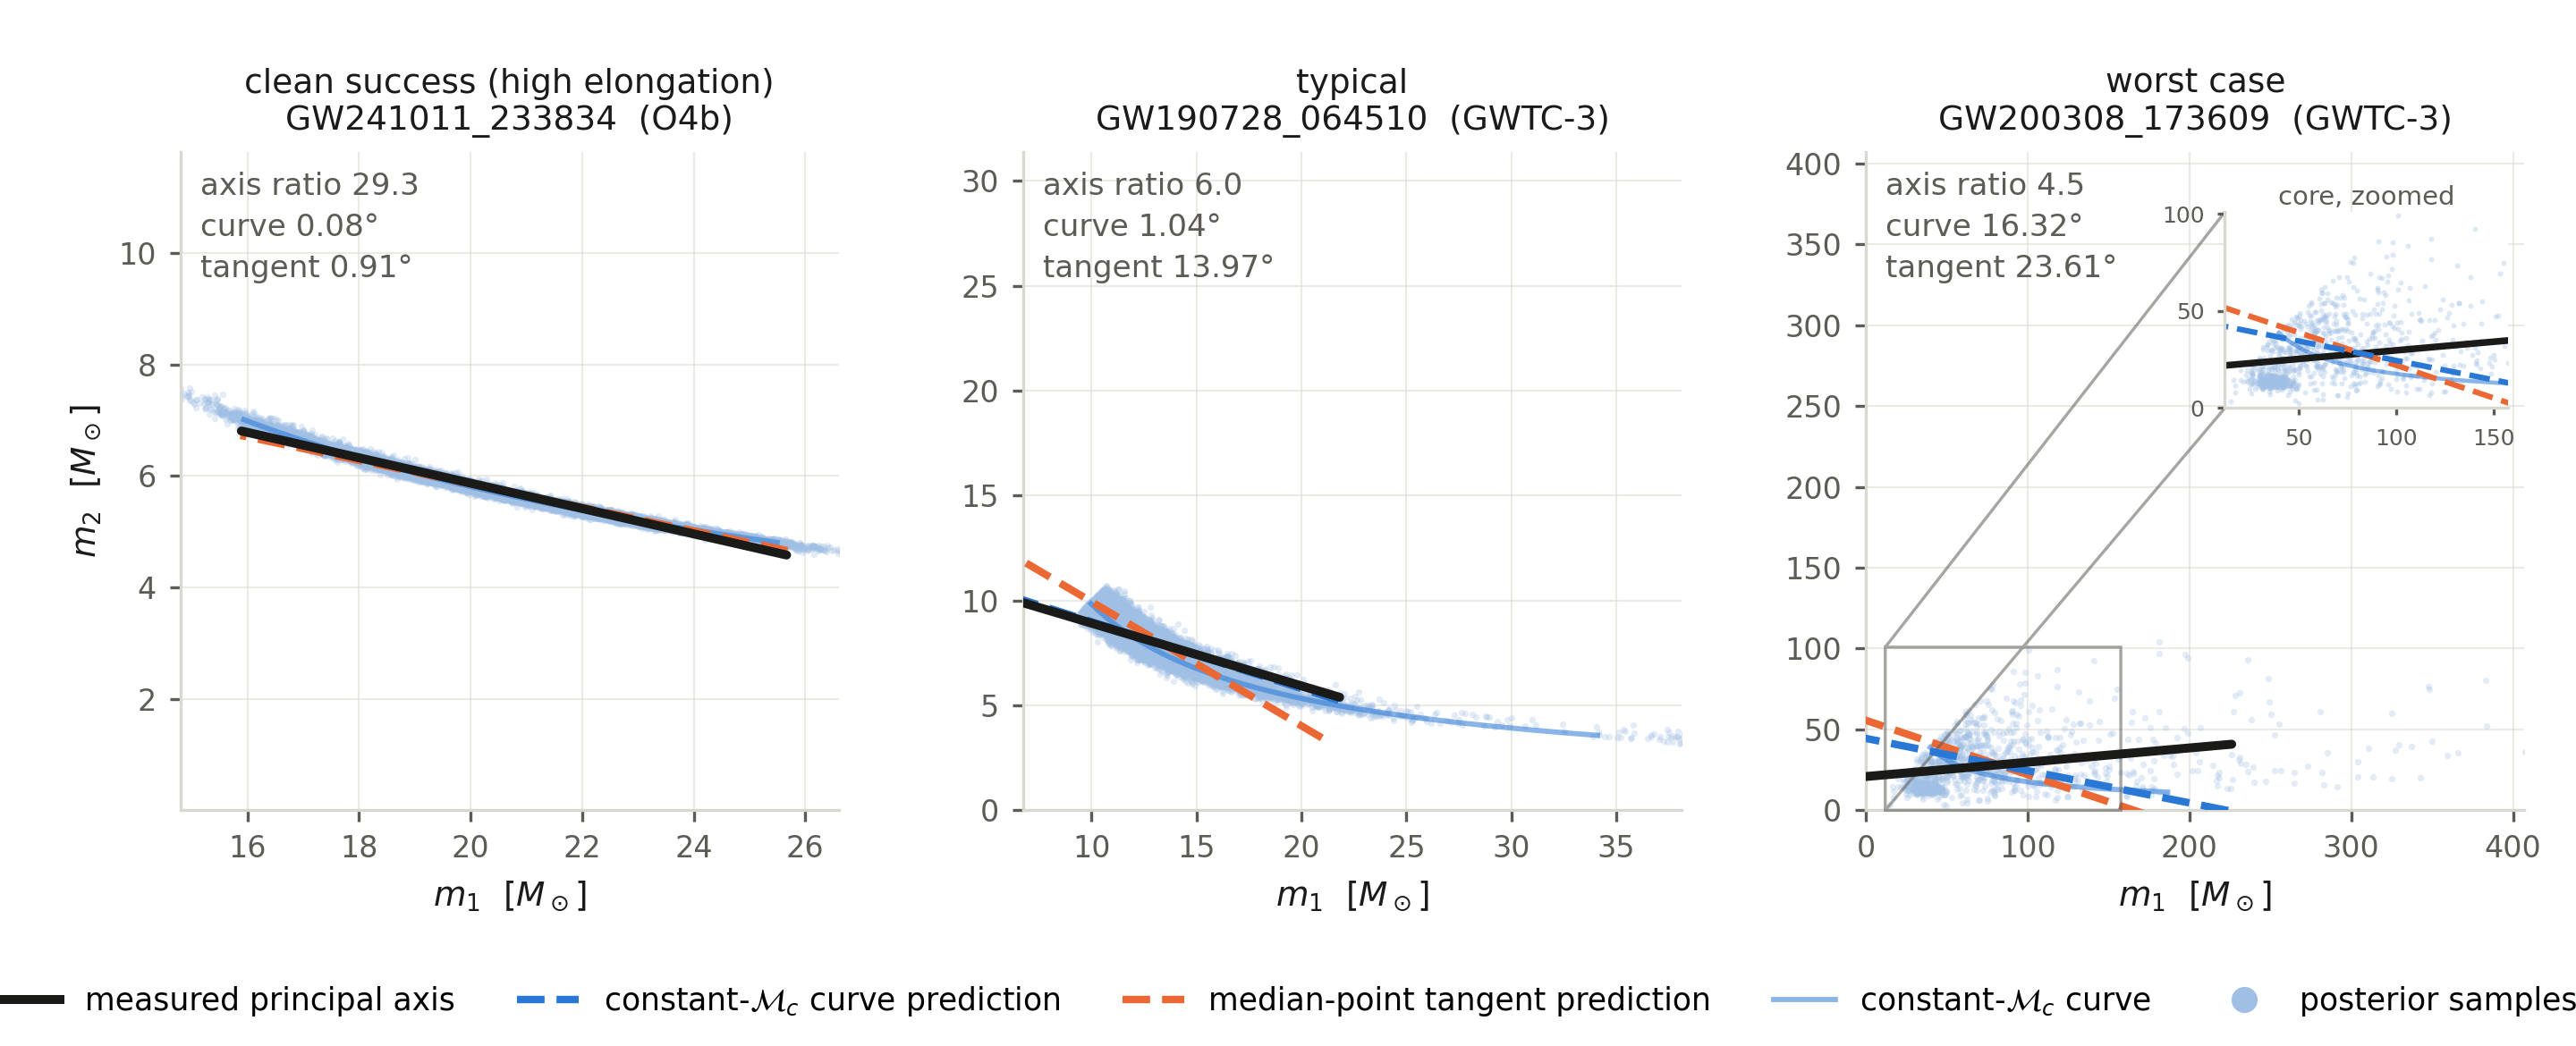
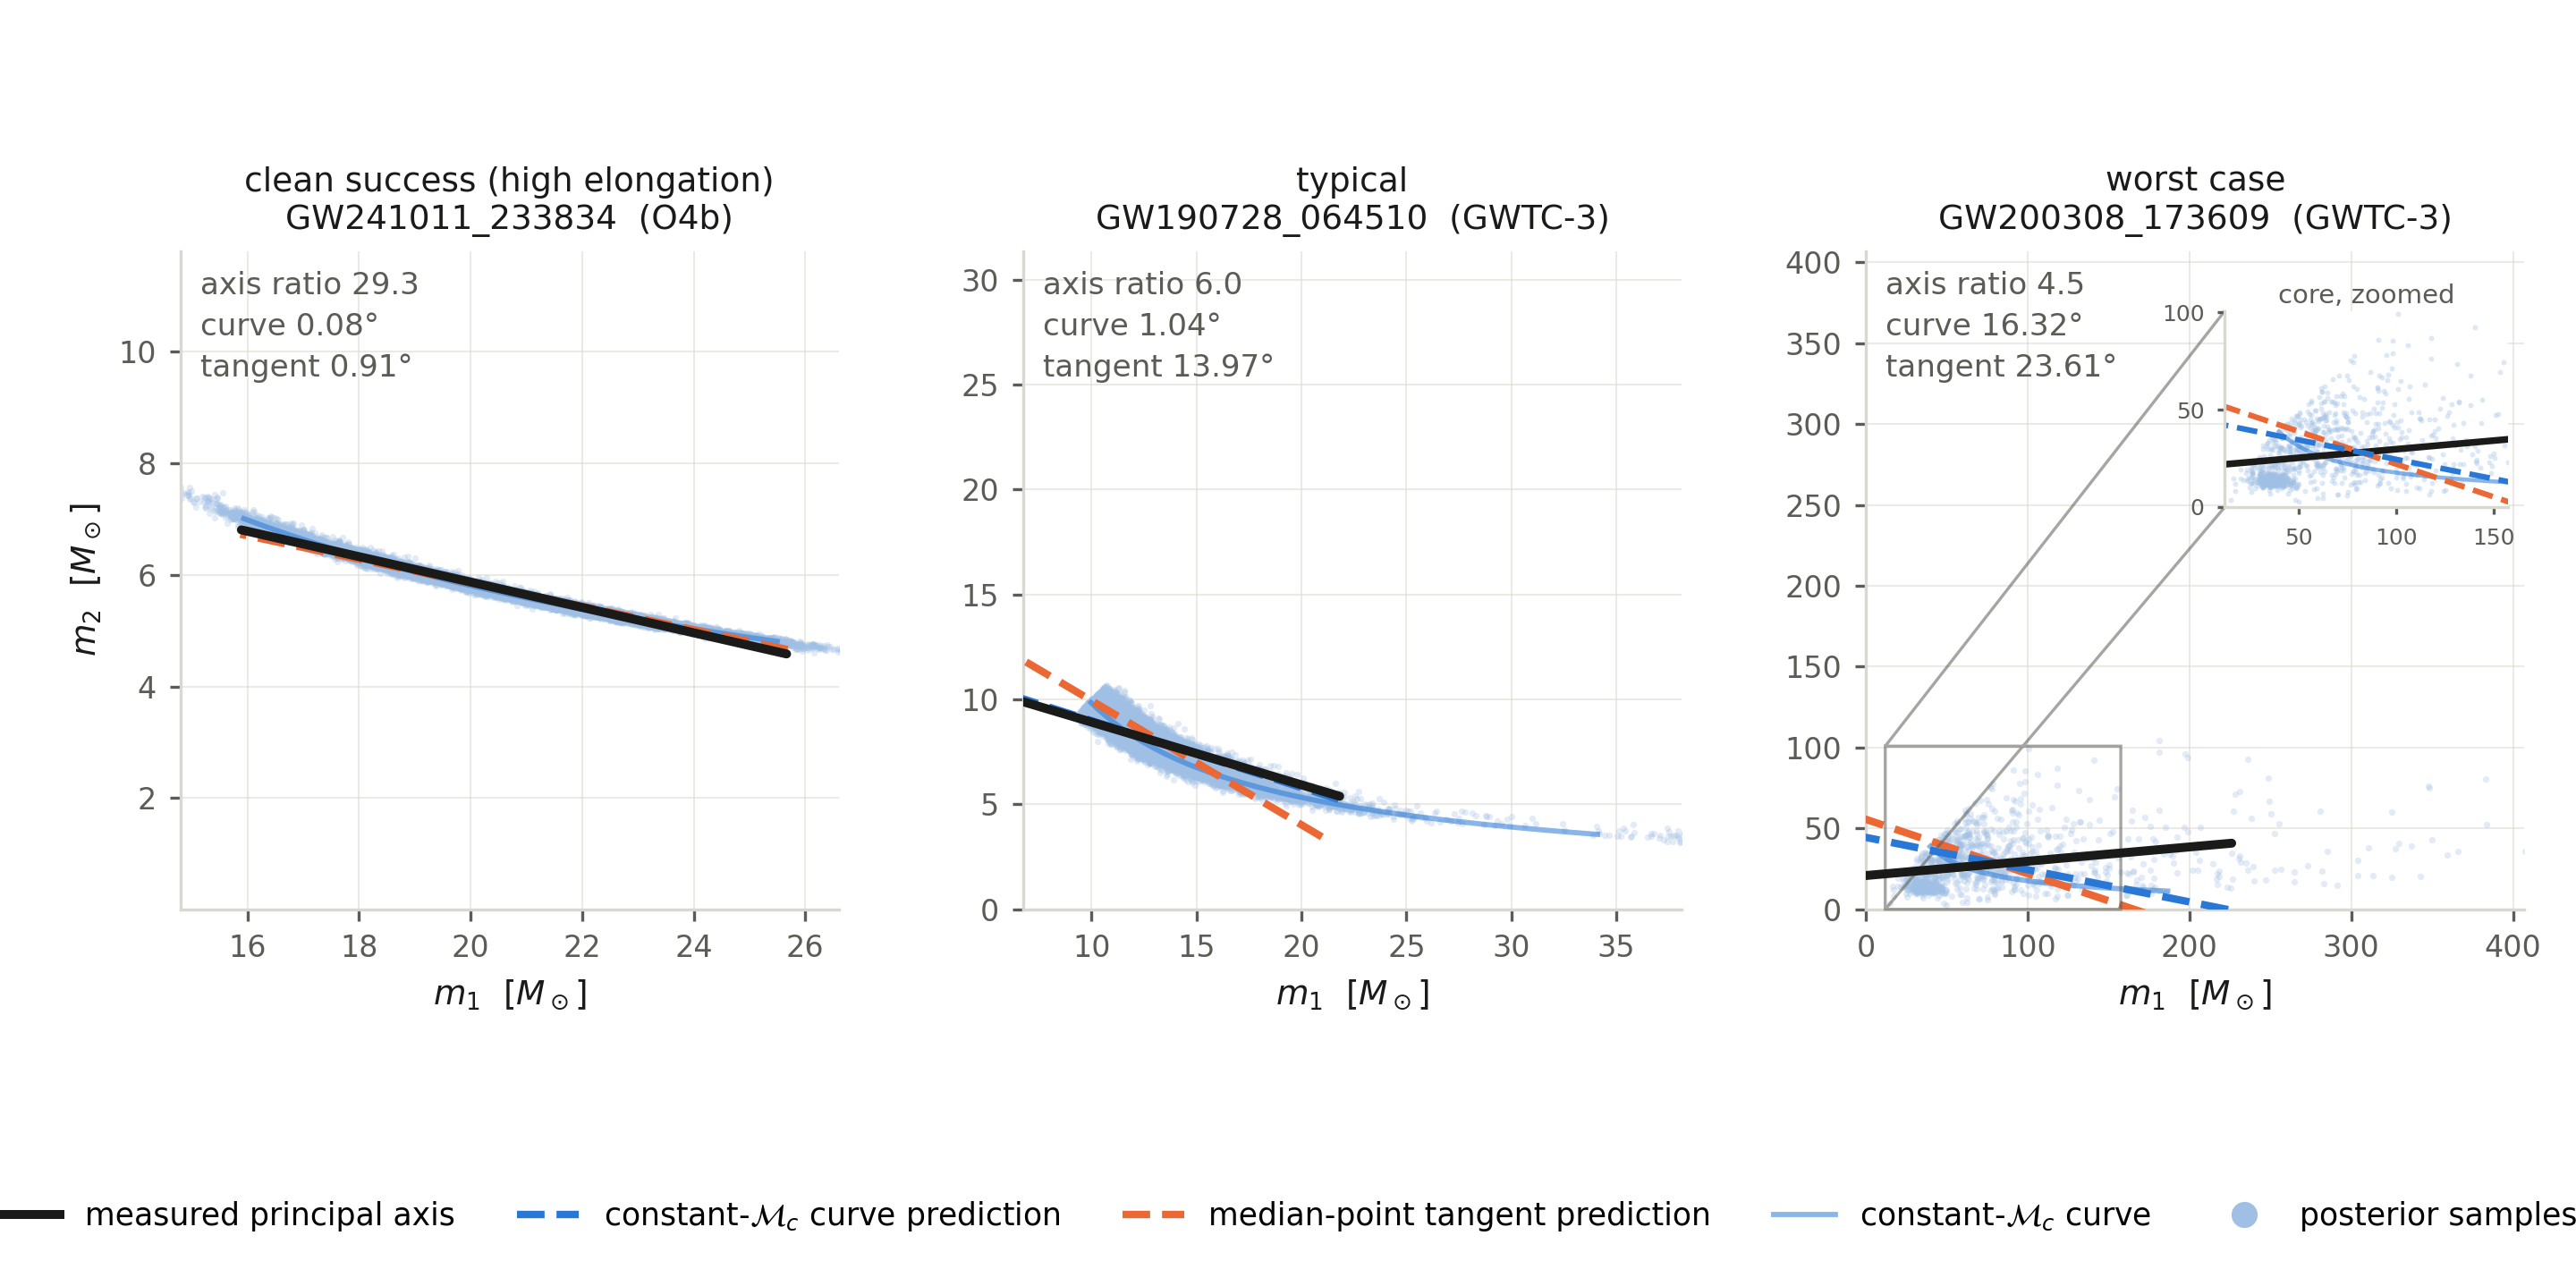
Writing revision: discovery narrative, not audit record
Response to an external readability review that returned "major revision for writing, not
for substance". No number changed -- paper/numbers.tex is byte-identical -- and the figures
are the same measurements.

ABSTRACT (P1). Cut from ~250 to 212 words and restructured to problem, method, headline
O4a/O4b numbers, non-triviality, one caveat. The waveform-transfer, self-consistency and
finite-thickness clauses were compressed to single mentions; the GR disclaimer became a
half-sentence at the end instead of three lines.

AUDIT PROSE (P1). The scattered denials -- not invariant, not a hyperribbon, not Cencov,
not a GR test -- are now one "Scope" paragraph in the Discussion that states three
boundaries together and says why each stronger reading is unsupported. Said once, in one
place, it reads as precision; said six times across four sections, it read as flinching.

CAPTIONS (P1). Rewritten in the generator, not the .tex, so they stay artifact-backed:
Fig 1 70 words, Fig 2 92, Fig 3 117 (was a mini-methods section). Captions now give what is
plotted and the takeaway. The displaced material went where it belongs -- the "band is a
null, not a confidence interval" caveat into Sec 3.2, and the distinction between the
per-event Monte Carlo resolution and the bootstrap-over-events interval into Sec 4.1.

TABLE 1 (P1). "N events (elongated) | 86 (19)" was genuinely ambiguous against GWTC-3's
bare 75. Split into "N events, total" and "N events, elongated".
[…]

diff --git a/paper/manuscript.tex b/paper/manuscript.tex
@@ -6,7 +6,7 @@
 \usepackage{natbib}
 \setcitestyle{numbers,square}
 
-\title{\textbf{Reconstructing the orientation of compact-binary mass posteriors\\
+\title{\textbf{Reconstructing compact-binary mass-posterior orientation\\
 from the mass-ratio marginal}}
 \author{Kunal Bhatia\\
 \small Independent researcher, Meerut, India \\
@@ -20,28 +20,23 @@ from the mass-ratio marginal}}
 \maketitle
 
 \begin{abstract}
-The two-dimensional component-mass posterior of a compact-binary gravitational-wave event is elongated
-along a contour of near-constant chirp mass, a feature usually treated as a nuisance degeneracy. We show
-that its \emph{orientation} is quantitatively reconstructible from a single one-dimensional marginal of
-the same posterior. Mapping the event's mass-ratio marginal through the constant-chirp-mass curve predicts
-the principal-axis position angle to a median $\LockedOaCurveElong^\circ$ on GWTC-4.0/O4a and
+The component-mass posterior of a compact-binary gravitational-wave event is elongated along a contour of
+near-constant chirp mass, a shape usually treated as a nuisance degeneracy. We show that its
+\emph{orientation} is quantitatively reconstructible from a single one-dimensional marginal of the same
+posterior. Evaluating the constant-chirp-mass curve over an event's own mass-ratio marginal predicts the
+principal-axis position angle to a median $\LockedOaCurveElong^\circ$ on GWTC-4.0/O4a and
 $\LockedObCurveElong^\circ$ on GWTC-5.0/O4b for elongated posteriors (axis ratio $\ge 3$), with no
-coefficient calibrated on either catalog; the prediction was fixed on GWTC-3 and registered before the
-later data were examined. The corresponding local tangent approximation, which underlies rapid
-parameter-estimation tools, achieves $\CacheObTangent$--$\CacheOaTangent^\circ$ on the same events. The
-result does not follow from a curve merely fitting a curved distribution: substituting any other event's
-mass-ratio marginal degrades the error by $\DegradeMin$--$\DegradeMax\times$, and the achieved error lies
-below the minimum of $\PermN$ catalog-stratified permutations in all three catalogs. Inputs taken from one
-waveform family recover a different family's independently sampled axis to
-$\XfamAtoB^\circ$--$\XfamBtoA^\circ$, against a $\XfamDisagree^\circ$ scale set by the families' mutual
-disagreement, so the result is not an artifact of reusing one posterior's Monte Carlo noise. The residual
-$\sim\!1^\circ$ is $\ResidRatio$ times the Monte Carlo resolution of the released samples and is therefore
-a property of the model rather than of finite sampling; it is tracked by the curve's failure of
-principal-curve self-consistency ($\rho=\SelfRho$, $p=\SelfP$), and finite posterior thickness is an
-out-of-sample contributor. We present this as a posterior-compression relation and a systematics
-diagnostic. It is not a test of general relativity: the posteriors are generated with
-general-relativistic waveform models, and their internal geometry cannot bound departures from the theory
-that produced them.
+coefficient calibrated on either catalog and with the prediction fixed on GWTC-3 beforehand. The local
+tangent approximation used by rapid parameter-estimation tools achieves
+$\CacheObTangent$--$\CacheOaTangent^\circ$ on the same events. This is not a curve merely fitting a curved
+distribution: substituting any other event's marginal degrades the error by
+$\DegradeMin$--$\DegradeMax\times$, and the achieved error falls below the minimum of $\PermN$
+catalog-stratified permutations in all three catalogs. Inputs from one waveform family recover another
+family's independently sampled axis to $\XfamAtoB^\circ$--$\XfamBtoA^\circ$, so the agreement does not
+arise from shared Monte Carlo noise. The residual $\sim\!1^\circ$ is $\ResidRatio$ times the Monte Carlo
+resolution of the released samples and is therefore a property of the model; it is tracked by the curve's
+failure of principal-curve self-consistency. We present this as a posterior-compression relation and a
+systematics diagnostic, not as a test of general relativity.
 \end{abstract}
 
 \section{Introduction}
@@ -62,11 +57,18 @@ the $(m_1,m_2)$ posterior --- the position angle of its principal axis --- be re
 low-dimensional summaries of the same posterior, using no coefficient calibrated on the data being
 predicted, and does such a reconstruction survive on later, disjoint catalogs?
 
-It can. Mapping an event's mass-ratio marginal through the constant-$\mathcal{M}_c$ curve predicts the
-measured position angle to about a degree on elongated posteriors, in two catalogs released after the
-prediction was fixed. The organising idea is that the uncertainty geometry of gravitational-wave inference
-is largely \emph{measurement optics} --- a property of what the signal and instrument can resolve, rather
-than of source astrophysics --- and that this geometry is precise enough to be used as a diagnostic.
+It can, and the construction is elementary. Evaluate the constant-$\mathcal{M}_c$ curve over the event's
+own mass-ratio marginal, and take the principal axis of the resulting set of points. That axis predicts the
+posterior's own principal axis to about a degree on elongated posteriors, in two catalogs released after
+the prediction was fixed.
+
+The reason it works is visible in Figure~\ref{fig:2a}. Posterior samples are spread along an \emph{arc},
+not a line, so their principal axis is a chord of that arc and is rotated away from the tangent at the
+median point. Using the arc rather than the tangent supplies essentially all of the accuracy: the same
+comparison run with the tangent is several times worse. The organising idea is that the uncertainty
+geometry of gravitational-wave inference is largely \emph{measurement optics} --- a property of what the
+signal and instrument can resolve rather than of source astrophysics --- and that this geometry is precise
+enough to be used as a diagnostic.
 
 The ingredients are individually familiar. That inference problems possess a few stiff and many sloppy
 directions is the content of the sloppy-model framework \citep{Transtrum2015}; that the principal axis of
@@ -164,7 +166,8 @@ median $|\psi_{\rm curve}-\psi_{\rm meas}|$ (all) & --- & $\LockedOaCurveAll^\ci
 median $|\psi_{\rm tangent}-\psi_{\rm meas}|$ (all) & $\TrainTangentAll^\circ$ & $\LockedOaTangentAll^\circ$ & $\LockedObTangentAll^\circ$ \\
 chirp-vs-total win fraction & $\TrainWinFrac$\textsuperscript{$\dagger$} & $\LockedOaWinFrac$ & $\LockedObWinFrac$ \\
 Spearman$(|\Delta\psi_{\rm tangent}|,\mathrm{axr})$ & $\TrainSpearmanAxr$ & $\LockedOaSpearmanAxr$ & $\LockedObSpearmanAxr$ \\
-$N$ events (elongated) & $\TrainN$ & $\LockedOaN\ (\LockedOaNElong)$ & $\LockedObN\ (\LockedObNElong)$ \\
+$N$ events, total & $\TrainN$ & $\LockedOaN$ & $\LockedObN$ \\
+$N$ events, elongated & --- & $\LockedOaNElong$ & $\LockedObNElong$ \\
 \hline
 \end{tabular}
 \caption{Locked out-of-sample scores, computed on the full released posterior samples. The reconstruction
@@ -201,7 +204,8 @@ substantive question is whether the \emph{event's own} marginal carries the info
 plausible mass-ratio distribution would perform comparably. It does not (Figure~\ref{fig:1c}).
 
 Replacing the event's marginal with one pooled over the catalog, or with another event's, degrades the
-median error by $\DegradeMin$--$\DegradeMax\times$. Under $\PermN$ catalog-stratified permutations of the
+median error by $\DegradeMin$--$\DegradeMax\times$. The band shown in Figure~\ref{fig:1c} is that null
+distribution; it is not a confidence interval on the reconstruction. Under $\PermN$ catalog-stratified permutations of the
 mass-ratio marginals among events, the achieved error lies below the \emph{minimum} of the null
 distribution in every catalog, giving a permutation $p$-value $< 1/\PermN$ throughout. We report the full
 permutation distribution rather than a single shuffled assignment because one draw is not a null: in O4a
@@ -237,7 +241,8 @@ difference, against a median discrepancy of $\ResidMedian^\circ$: a ratio of $\R
 constant-$\mathcal{M}_c$ curve is an accurate but imperfect description of posterior orientation, and the
 gap is a property of the model rather than of the sample count.
 
-This bootstrap measures the Monte Carlo resolution of the released sample set. It shrinks as more samples
+This bootstrap measures the Monte Carlo resolution of the released sample set, and is distinct from the
+interval drawn in Figure~\ref{fig:1b}, which is a bootstrap over the event sample. It shrinks as more samples
 are released and encodes nothing about detector noise, calibration, waveform systematics or population
 variation; it is not a coverage statement, and we do not report the fraction of events falling within one
 or two bootstrap widths as though it were.
@@ -350,46 +355,49 @@ The tangent baseline quantifies what is being corrected. The principal axis of a
 eigenvector of its covariance, which for a likelihood expanded quadratically about its peak is the local
 tangent to the degeneracy; the tangent error is therefore the error incurred by treating the posterior as
 Gaussian. On elongated events that error is $\GaussTangentErr^\circ$ against $\GaussCurveErr^\circ$ once
-the arc is accounted for --- a factor of $\GaussRatio$. We claim only this elementary geometric fact, and
-do not invoke the asymptotic statement that posteriors approach a Gaussian with inverse-Fisher covariance,
-which the argument does not require.
+the arc is accounted for --- a factor of $\GaussRatio$. For applications that use posterior orientation,
+the arc correction is essentially free: it requires the mass-ratio marginal, which parameter estimation
+already produces.
 
-We also do not appeal to the stronger structural language sometimes attached to results of this kind. The
-``hyperribbon'' picture, in which the covariance eigenvalue spectrum spans many orders of magnitude, does
-not follow from what we measure: in the two-dimensional mass plane the eigenvalue ratio has a median of
-$\EigRatioMedian$, with $\EigFracDecade$ of events exceeding one order of magnitude and $\EigFracTwoDec$
-exceeding two. Sloppiness in that sense is a property of the full parameter space, which a two-dimensional
-marginal cannot establish. Similarly, we do not invoke {\v C}encov's uniqueness theorem for the Fisher--Rao
-metric: our measured object is a Euclidean angle in fixed coordinates and is demonstrably not invariant
-(Section~\ref{sec:frames}), so an appeal to an invariance theorem would contradict the measurement.
+\paragraph{Scope.} Three boundaries are worth stating together, since each has a natural stronger reading
+that the measurements do not support. First, the relation is a compression of a posterior, not a
+prediction from external physics: the mass-ratio marginal is drawn from the posterior being reconstructed.
+Second, the reconstructed quantity is a Euclidean angle in fixed coordinates, and Section~\ref{sec:frames}
+shows it changes with the choice of mass variables; we therefore report the convention rather than claim
+invariance, and do not appeal to {\v C}encov's uniqueness theorem for the Fisher--Rao metric, which would
+assert the opposite of what we measure. Third, we use the stiff/sloppy vocabulary
+\citep{Transtrum2015} for the concept only. The stronger ``hyperribbon'' picture, in which the covariance
+eigenvalue spectrum spans many orders of magnitude, does not follow from these data: in the
+two-dimensional mass plane the eigenvalue ratio has a median of $\EigRatioMedian$, with $\EigFracDecade$
+of events exceeding one order of magnitude and $\EigFracTwoDec$ exceeding two. Sloppiness in that sense is
+a property of the full parameter space, which a two-dimensional marginal cannot establish.
 
-\paragraph{Limitations.}
-(i) This is a posterior-compression result. The mass-ratio marginal is taken from the posterior being
-reconstructed, so it is not a prediction from source medians or from physics external to the posterior.
-(ii) It is validated on elongated posteriors; round posteriors have no well-defined orientation and are
-excluded by construction. \citet{Baird2013} note that constant chirp mass ceases to characterise the mass
-degeneracy as cleanly at higher masses, bounding where such a construction should be expected to hold.
-(iii) The residual is tracked by the curve's failure of self-consistency, but the corresponding one-step
-correction is not established out-of-sample, and the arc-varying form of the thickness contribution is not
-established either. (iv) The measured angle is frame- and coordinate-dependent, and we make no invariance
-claim. (v) O4a and O4b are disjoint event catalogs, not independent experiments: they share detectors,
-calibration, waveform families, priors and analysis conventions. (vi) The two out-of-sample scores are not
-equal evidence. The O4b registration is timestamped in the public record before the data were opened,
-whereas the O4a registration entered the public repository in the same commit as its results and is
-attested only by a private history. (vii) Waveform-model choice contributes a per-event orientation scatter
-of several degrees and is the dominant per-event systematic; on the worst-case event of
-Figure~\ref{fig:2a} the error spans $14.4^\circ$, $16.9^\circ$ and $22.7^\circ$ across its three waveform
-families. (viii) A first-principles derivation of the curve's width and curvature from the Fisher
-information remains open.
+The posteriors analysed here were generated with general-relativistic waveform models, so structure found
+in their geometry probes the internal consistency of those inferences rather than the theory that produced
+them, and no bound on modified inspiral phasing follows. Appendix~\ref{app:exponent} develops this
+quantitatively for a one-parameter generalisation of the chirp-mass exponents, where a naive reading gives
+an apparent $\ExpNaiveSigma\sigma$ departure from the general-relativistic value that two pre-committed
+checks reduce to $\ExpSigma\sigma$.
 
-\paragraph{Not a test of general relativity.}
-The posterior samples analysed here were themselves generated with general-relativistic waveform models.
-Any structure found in their geometry probes the internal consistency of those inferences, not the theory
-that produced them, and no bound on modified inspiral phasing follows. Appendix~\ref{app:exponent}
-develops this point quantitatively for a one-parameter generalisation of the chirp-mass exponents, where a
-naive reading yields an apparent $\ExpNaiveSigma\sigma$ departure from the general-relativistic value that
-two pre-committed checks demote to $\ExpSigma\sigma$. We report it as a diagnostic of the model's own
-imperfections.
+\paragraph{Limitations.} We record the following, roughly in order of how much they constrain use of the
+result.
+\begin{enumerate}\itemsep2pt \parskip0pt
+\item Waveform-model choice contributes a per-event orientation scatter of several degrees and is the
+dominant per-event systematic.
+\item The relation is validated on elongated posteriors. Round posteriors have no well-defined orientation
+and are excluded by construction, and \citet{Baird2013} note that constant chirp mass characterises the
+mass degeneracy less cleanly at higher masses, bounding where the construction should be expected to hold.
+\item O4a and O4b are disjoint event catalogs, not independent experiments: they share detectors,
+calibration, waveform families, priors and analysis conventions.
+\item The two out-of-sample scores are not equal evidence. The O4b registration is timestamped in the
+public record before the data were opened; the O4a registration entered the public repository in the same
+commit as its results and is attested only by a private history.
+\item The residual is tracked by the curve's failure of self-consistency, but the corresponding one-step
+correction does not survive out-of-sample, and the arc-varying form of the thickness contribution is not
+established.
+\item A first-principles derivation of the curve's width and curvature from the Fisher information remains
+open.
+\end{enumerate}
 
 \section{Conclusions}
 \label{sec:conclusions}
@@ -524,17 +532,14 @@ This is independent work carried out entirely on public data. The author is not 
 LIGO--Virgo--KAGRA Collaboration; the Collaboration has not reviewed this
 analysis and bears no responsibility for its conclusions.
 
-\paragraph{Use of AI assistants.} This work was carried out with substantial assistance from large
-language models, disclosed here in full. Anthropic's Claude (Claude Opus 4.8, via Claude Code) was used
-to implement the analysis code, build the artifact-generation and figure pipelines, and draft and
-restructure this manuscript. OpenAI's Codex was used as an independent adversarial reviewer of both the
-analysis and the text, in repeated rounds. That review loop is responsible for several corrections
-reported here, including the identification of the posterior-cache defect described in
-Appendix~\ref{app:repro}, which had propagated into every cache-derived number in an earlier draft. The
-author defined the research questions, specified and registered every preregistered decision before the
-corresponding data were examined, verified the reported results against the committed artifacts, and is
-solely responsible for the content of this paper. The models are tools, not authors; no text or number
-appears here without the author's review. The author thanks the Collaboration for releasing the
+\paragraph{Use of AI assistants.} Large language models were used in this work: Anthropic's Claude
+(Opus 4.8) to implement the analysis code and figure pipelines and to draft the manuscript, and
+OpenAI's Codex for independent adversarial review of the analysis and text. The author defined the research
+questions, registered every preregistered decision before the corresponding data were examined, verified
+all reported results against the committed artifacts, and is solely responsible for the content. The
+models are tools, not authors.
+
+The author thanks the Collaboration for releasing the
 parameter-estimation samples on which the analysis wholly depends, and the open-source scientific Python
 community for NumPy \citep{numpy}, SciPy \citep{scipy}, Matplotlib \citep{matplotlib} and h5py.
 

diff --git a/paper/fig_captions.tex b/paper/fig_captions.tex
@@ -1,40 +1,30 @@
 % AUTO-GENERATED by src/build_manuscript_figures.py -- do not edit by hand.
 % Every number below is read from a figure sidecar JSON, so captions cannot drift from the figures.
+%
+% Captions state what is plotted and the takeaway. Provenance, selection rules and methodological
+% caveats belong in the text -- an external readability review flagged the earlier captions as
+% mini-methods sections.
 
 \newcommand{\figonebcaption}{%
-Reconstruction versus the local linear approximation, on elongated events
-($\mathrm{axr}\ge3$) in three disjoint event catalogs. Each thin line is one event,
-joining its median-point tangent error to its constant-$\mathcal{M}_c$ curve reconstruction error;
-heavy bars are catalog medians with a bootstrap interval computed over events. Medians:
-GWTC-3 ($n=29$): $4.83^\circ \to 0.88^\circ$, O4a ($n=19$): $6.67^\circ \to 1.26^\circ$, O4b ($n=32$): $4.20^\circ \to 1.19^\circ$. The vertical scale is logarithmic because per-event errors span roughly $0.01$--$24^\circ$.
-The interval is a bootstrap over the event sample, not the per-event Monte Carlo resolution of
-Sec.~\ref{sec:residual}.}
+Reconstruction error against the local linear approximation, on elongated events
+($\mathrm{axr}\ge3$) in three disjoint catalogs. Each thin line is one event, joining
+its median-point tangent error to its constant-$\mathcal{M}_c$ curve error; heavy bars are catalog
+medians with a bootstrap interval over events. The curve improves on the tangent in every catalog:
+GWTC-3 ($n=29$): $4.83^\circ \to 0.88^\circ$, O4a ($n=19$): $6.67^\circ \to 1.26^\circ$, O4b ($n=32$): $4.20^\circ \to 1.19^\circ$. Note the logarithmic scale.}
 
 \newcommand{\figoneccaption}{%
-The reconstruction requires the \emph{event's own} mass-ratio marginal. For each catalog the blue
-circle is the median error using the event's own $q$ marginal; the orange square is the median-point
-tangent; the grey diamond substitutes a $q$ marginal pooled over the catalog. The grey band is a
-\textbf{permutation null}---the 5th--95th percentile of the catalog-median error when each event is
-given a \emph{different} event's $q$ marginal, over
-300 catalog-stratified draws---and the dark tick marks that
-null's \emph{minimum}, i.e.\ the single best of those draws. Own-$q$ lies below the null minimum in
-every catalog (GWTC-3: own-$q$ $0.88^\circ$ vs.\ null minimum $4.55^\circ$; O4a: own-$q$ $1.26^\circ$ vs.\ null minimum $3.19^\circ$; O4b: own-$q$ $1.19^\circ$ vs.\ null minimum $2.23^\circ$), so the permutation $p$-value is
-$<1/300$ in each. \textbf{The band is a null distribution: it
-is not a confidence interval, not coverage, and not an uncertainty on own-$q$.}}
+The reconstruction requires the \emph{event's own} mass-ratio marginal. Blue circles use the event's own
+$q$ marginal, orange squares the median-point tangent, grey diamonds a $q$ marginal pooled over the
+catalog. The grey band spans the 5th--95th percentile of a permutation null in which each event is given a
+different event's $q$ marginal (300 catalog-stratified draws); the
+dark tick marks that null's minimum. Own-$q$ falls below the null minimum in every catalog (GWTC-3: own-$q$ $0.88^\circ$ vs.\ null minimum $4.55^\circ$; O4a: own-$q$ $1.26^\circ$ vs.\ null minimum $3.19^\circ$; O4b: own-$q$ $1.19^\circ$ vs.\ null minimum $2.23^\circ$).}
 
 \newcommand{\figtwoacaption}{%
-\textbf{Illustrative examples} of the posterior geometry and its reconstruction; this panel explains,
-it does not establish a mechanism. Each panel shows one event's $(m_1,m_2)$ posterior samples, the
-constant-$\mathcal{M}_c$ curve through the event's median chirp mass, the measured principal axis, and
-the two predicted orientations. Axes use \emph{equal aspect}: orientation angles are only visually
-truthful under equal aspect. Events are chosen by deterministic rules recorded in the figure sidecar,
-not selected by eye: \emph{clean success (high elongation)} GW241011\_233834 (O4b, axr $29.3$, curve $0.08^\circ$, tangent $0.91^\circ$); \emph{typical} GW190728\_064510 (GWTC-3, axr $6.0$, curve $1.04^\circ$, tangent $13.97^\circ$); \emph{worst case} GW200308\_173609 (GWTC-3, axr $4.5$, curve $16.32^\circ$, tangent $23.61^\circ$). The worst case is included by rule so the figure is not a gallery of
-successes. Across all elongated events the tangent in fact beats the curve for
+Posterior geometry for three events chosen by fixed rules --- \emph{clean success (high elongation)} GW241011\_233834 (O4b, axr $29.3$, curve $0.08^\circ$, tangent $0.91^\circ$); \emph{typical} GW190728\_064510 (GWTC-3, axr $6.0$, curve $1.04^\circ$, tangent $13.97^\circ$); \emph{worst case} GW200308\_173609 (GWTC-3, axr $4.5$, curve $16.32^\circ$, tangent $23.61^\circ$). Each panel shows the posterior
+samples, the constant-$\mathcal{M}_c$ curve, the measured principal axis and the two predicted
+orientations, on equal-aspect axes. The worst case is included by rule rather than chosen, and carries a
+zoom inset on its dense core; its failure is genuine, the error remaining at
+$16.2$--$17.5^\circ$ when the sample is trimmed to its central $90\%$. Across all
+elongated events the tangent beats the curve for
 $15\%$ of events, rising to
-$31\%$ above $\mathrm{axr}=8$, where the curve's
-advantage shrinks. No thickness-adjusted axis is drawn: finite posterior thickness is supported
-out-of-sample but arc-varying thickness is \emph{not} established (Sec.~\ref{sec:residual}). The
-worst-case panel is a heavy-tailed, high-mass posterior whose dense core occupies a small part of the
-plotted range, so it carries a zoom inset on that core; the three directions there are the same lines,
-not a re-fit. That failure is \emph{not} an outlier artifact: trimming to the central $90\%$ of samples
-leaves the error at $16.2$--$17.5^\circ$, so the curve genuinely misses this event.}
+$31\%$ above $\mathrm{axr}=8$.}

diff --git a/src/build_manuscript_figures.py b/src/build_manuscript_figures.py
@@ -48,44 +48,34 @@ def main():
     ts = _worst["tail_sensitivity"]["curve_err_range_deg"]
     tex = f"""% AUTO-GENERATED by src/build_manuscript_figures.py -- do not edit by hand.
 % Every number below is read from a figure sidecar JSON, so captions cannot drift from the figures.
+%
+% Captions state what is plotted and the takeaway. Provenance, selection rules and methodological
+% caveats belong in the text -- an external readability review flagged the earlier captions as
+% mini-methods sections.
 
 \\newcommand{{\\figonebcaption}}{{%
-Reconstruction versus the local linear approximation, on elongated events
-($\\mathrm{{axr}}\\ge{b['axr_min']:.0f}$) in three disjoint event catalogs. Each thin line is one event,
-joining its median-point tangent error to its constant-$\\mathcal{{M}}_c$ curve reconstruction error;
-heavy bars are catalog medians with a bootstrap interval computed over events. Medians:
-{bt}. The vertical scale is logarithmic because per-event errors span roughly $0.01$--$24^\\circ$.
-The interval is a bootstrap over the event sample, not the per-event Monte Carlo resolution of
-Sec.~\\ref{{sec:residual}}.}}
+Reconstruction error against the local linear approximation, on elongated events
+($\\mathrm{{axr}}\\ge{b['axr_min']:.0f}$) in three disjoint catalogs. Each thin line is one event, joining
+its median-point tangent error to its constant-$\\mathcal{{M}}_c$ curve error; heavy bars are catalog
+medians with a bootstrap interval over events. The curve improves on the tangent in every catalog:
+{bt}. Note the logarithmic scale.}}
 
 \\newcommand{{\\figoneccaption}}{{%
-The reconstruction requires the \\emph{{event's own}} mass-ratio marginal. For each catalog the blue
-circle is the median error using the event's own $q$ marginal; the orange square is the median-point
-tangent; the grey diamond substitutes a $q$ marginal pooled over the catalog. The grey band is a
-\\textbf{{permutation null}}---the 5th--95th percentile of the catalog-median error when each event is
-given a \\emph{{different}} event's $q$ marginal, over
-{c['catalogs']['GWTC-3']['perm_null']['n']} catalog-stratified draws---and the dark tick marks that
-null's \\emph{{minimum}}, i.e.\\ the single best of those draws. Own-$q$ lies below the null minimum in
-every catalog ({ct}), so the permutation $p$-value is
-$<1/{c['catalogs']['GWTC-3']['perm_null']['n']}$ in each. \\textbf{{The band is a null distribution: it
-is not a confidence interval, not coverage, and not an uncertainty on own-$q$.}}}}
+The reconstruction requires the \\emph{{event's own}} mass-ratio marginal. Blue circles use the event's own
+$q$ marginal, orange squares the median-point tangent, grey diamonds a $q$ marginal pooled over the
+catalog. The grey band spans the 5th--95th percentile of a permutation null in which each event is given a
+different event's $q$ marginal ({c['catalogs']['GWTC-3']['perm_null']['n']} catalog-stratified draws); the
+dark tick marks that null's minimum. Own-$q$ falls below the null minimum in every catalog ({ct}).}}
 
 \\newcommand{{\\figtwoacaption}}{{%
-\\textbf{{Illustrative examples}} of the posterior geometry and its reconstruction; this panel explains,
-it does not establish a mechanism. Each panel shows one event's $(m_1,m_2)$ posterior samples, the
-constant-$\\mathcal{{M}}_c$ curve through the event's median chirp mass, the measured principal axis, and
-the two predicted orientations. Axes use \\emph{{equal aspect}}: orientation angles are only visually
-truthful under equal aspect. Events are chosen by deterministic rules recorded in the figure sidecar,
-not selected by eye: {ap}. The worst case is included by rule so the figure is not a gallery of
-successes. Across all elongated events the tangent in fact beats the curve for
+Posterior geometry for three events chosen by fixed rules --- {ap}. Each panel shows the posterior
+samples, the constant-$\\mathcal{{M}}_c$ curve, the measured principal axis and the two predicted
+orientations, on equal-aspect axes. The worst case is included by rule rather than chosen, and carries a
+zoom inset on its dense core; its failure is genuine, the error remaining at
+${ts[0]:.1f}$--${ts[1]:.1f}^\\circ$ when the sample is trimmed to its central $90\\%$. Across all
+elongated events the tangent beats the curve for
 ${tw['tangent_beats_curve_fraction_all_elongated']*100:.0f}\\%$ of events, rising to
-${tw['tangent_beats_curve_fraction_axr_ge_8']*100:.0f}\\%$ above $\\mathrm{{axr}}=8$, where the curve's
-advantage shrinks. No thickness-adjusted axis is drawn: finite posterior thickness is supported
-out-of-sample but arc-varying thickness is \\emph{{not}} established (Sec.~\\ref{{sec:residual}}). The
-worst-case panel is a heavy-tailed, high-mass posterior whose dense core occupies a small part of the
-plotted range, so it carries a zoom inset on that core; the three directions there are the same lines,
-not a re-fit. That failure is \\emph{{not}} an outlier artifact: trimming to the central $90\\%$ of samples
-leaves the error at ${ts[0]:.1f}$--${ts[1]:.1f}^\\circ$, so the curve genuinely misses this event.}}
+${tw['tangent_beats_curve_fraction_axr_ge_8']*100:.0f}\\%$ above $\\mathrm{{axr}}=8$.}}
 """
     os.makedirs(os.path.dirname(OUT), exist_ok=True)
     open(OUT, "w").write(tex)

diff --git a/src/fig2a_posterior_geometry_examples.py b/src/fig2a_posterior_geometry_examples.py
@@ -97,7 +97,7 @@ def build():
     rows = collect(prim)
     picks = select(rows)
 
-    fig, axes = plt.subplots(1, 3, figsize=(9.6, 3.9))
+    fig, axes = plt.subplots(1, 3, figsize=(9.6, 4.7))
     side = {"figure": STEM, "role": "explanatory / secondary -- NOT a main-claim panel",
             "caption_guidance": ("Examples of the posterior geometry and its reconstruction. This "
                                  "panel illustrates; it does not establish a mechanism. E96 supports "

diff --git a/tests/test_paper_numbers.py b/tests/test_paper_numbers.py
@@ -119,7 +119,7 @@ def test_data_citation_and_acknowledgment_present():
                   "not a member of the", "bears no responsibility",
                   "Creative Commons", "numpy", "scipy", "matplotlib",
                   # AI-use disclosure: required by most journals now, and easy to drop in a rewrite
-                  "Use of AI assistants", "Claude Opus 4.8", "OpenAI's Codex",
+                  "Use of AI assistants", "Opus 4.8", "OpenAI's Codex",
                   "solely responsible for the content", "not authors"]:
         assert token in m, f"data-citation/acknowledgment element missing: {token}"
 